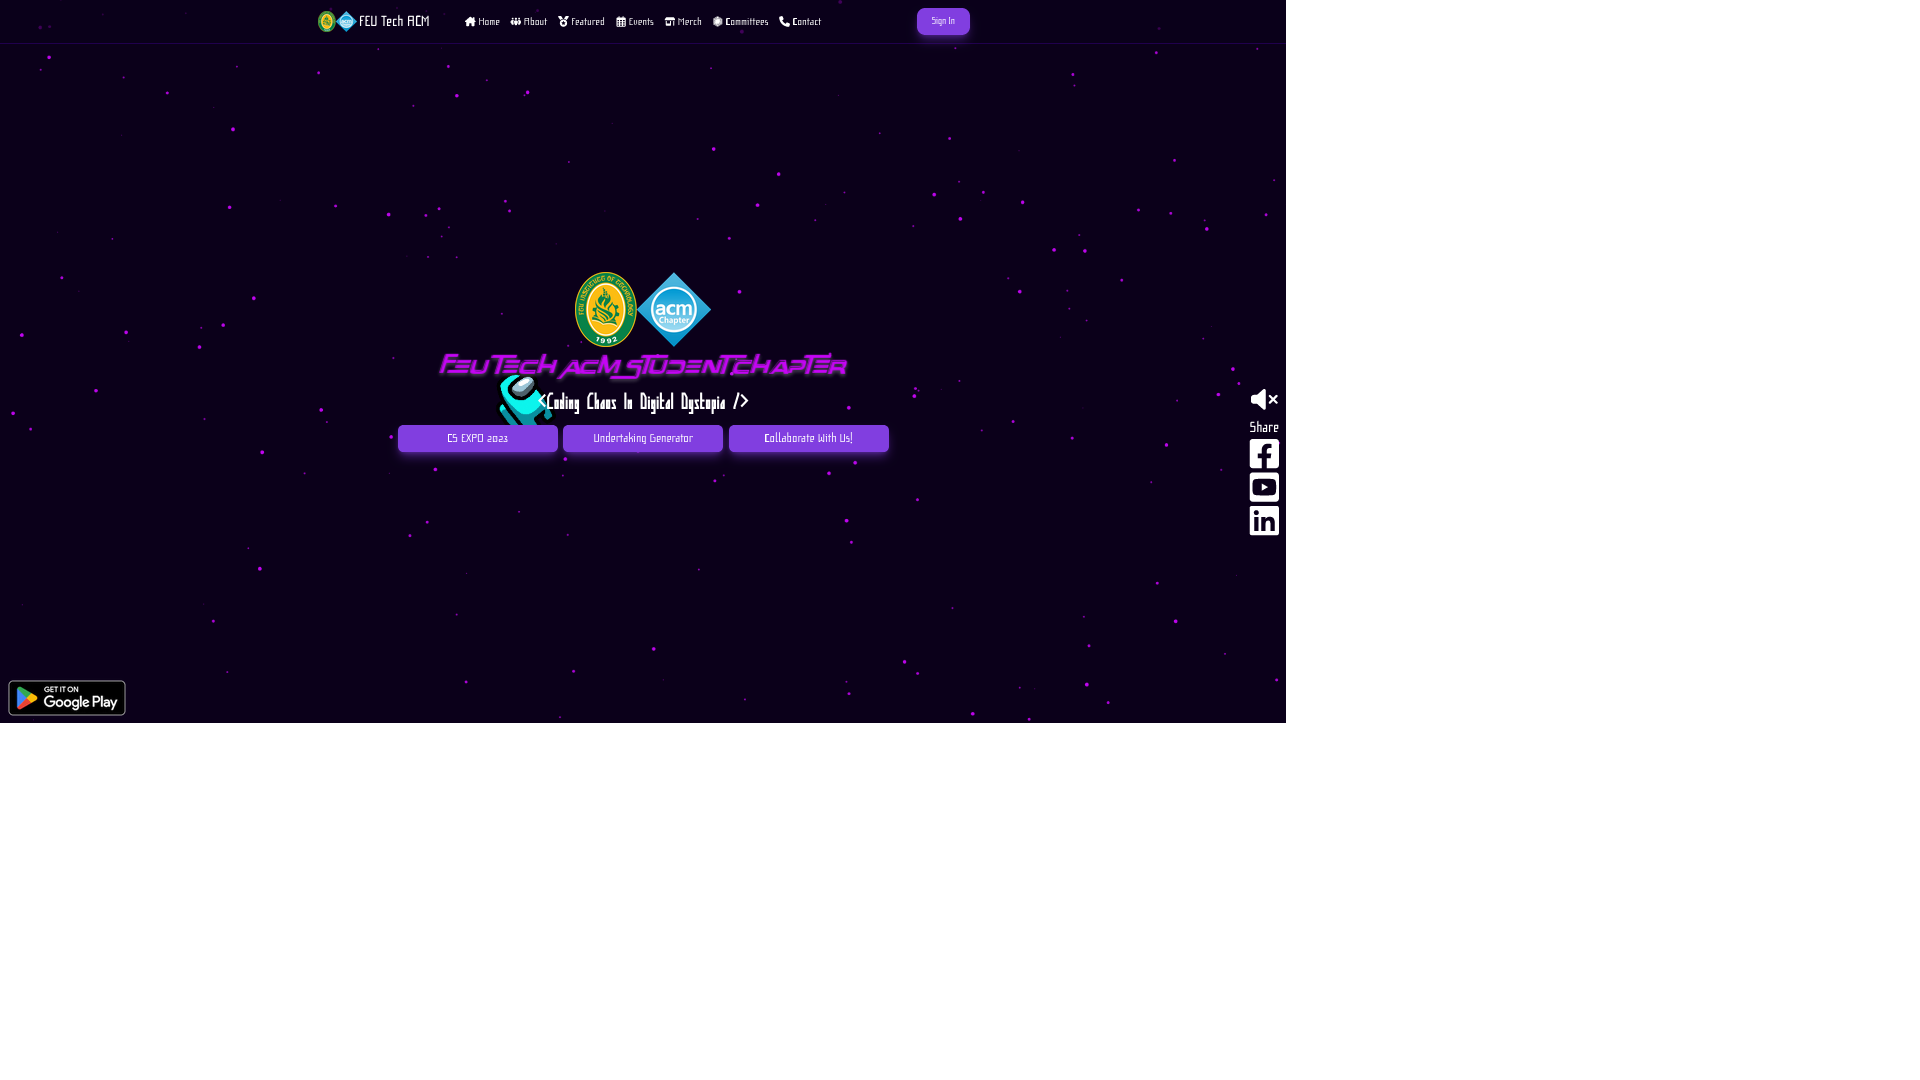
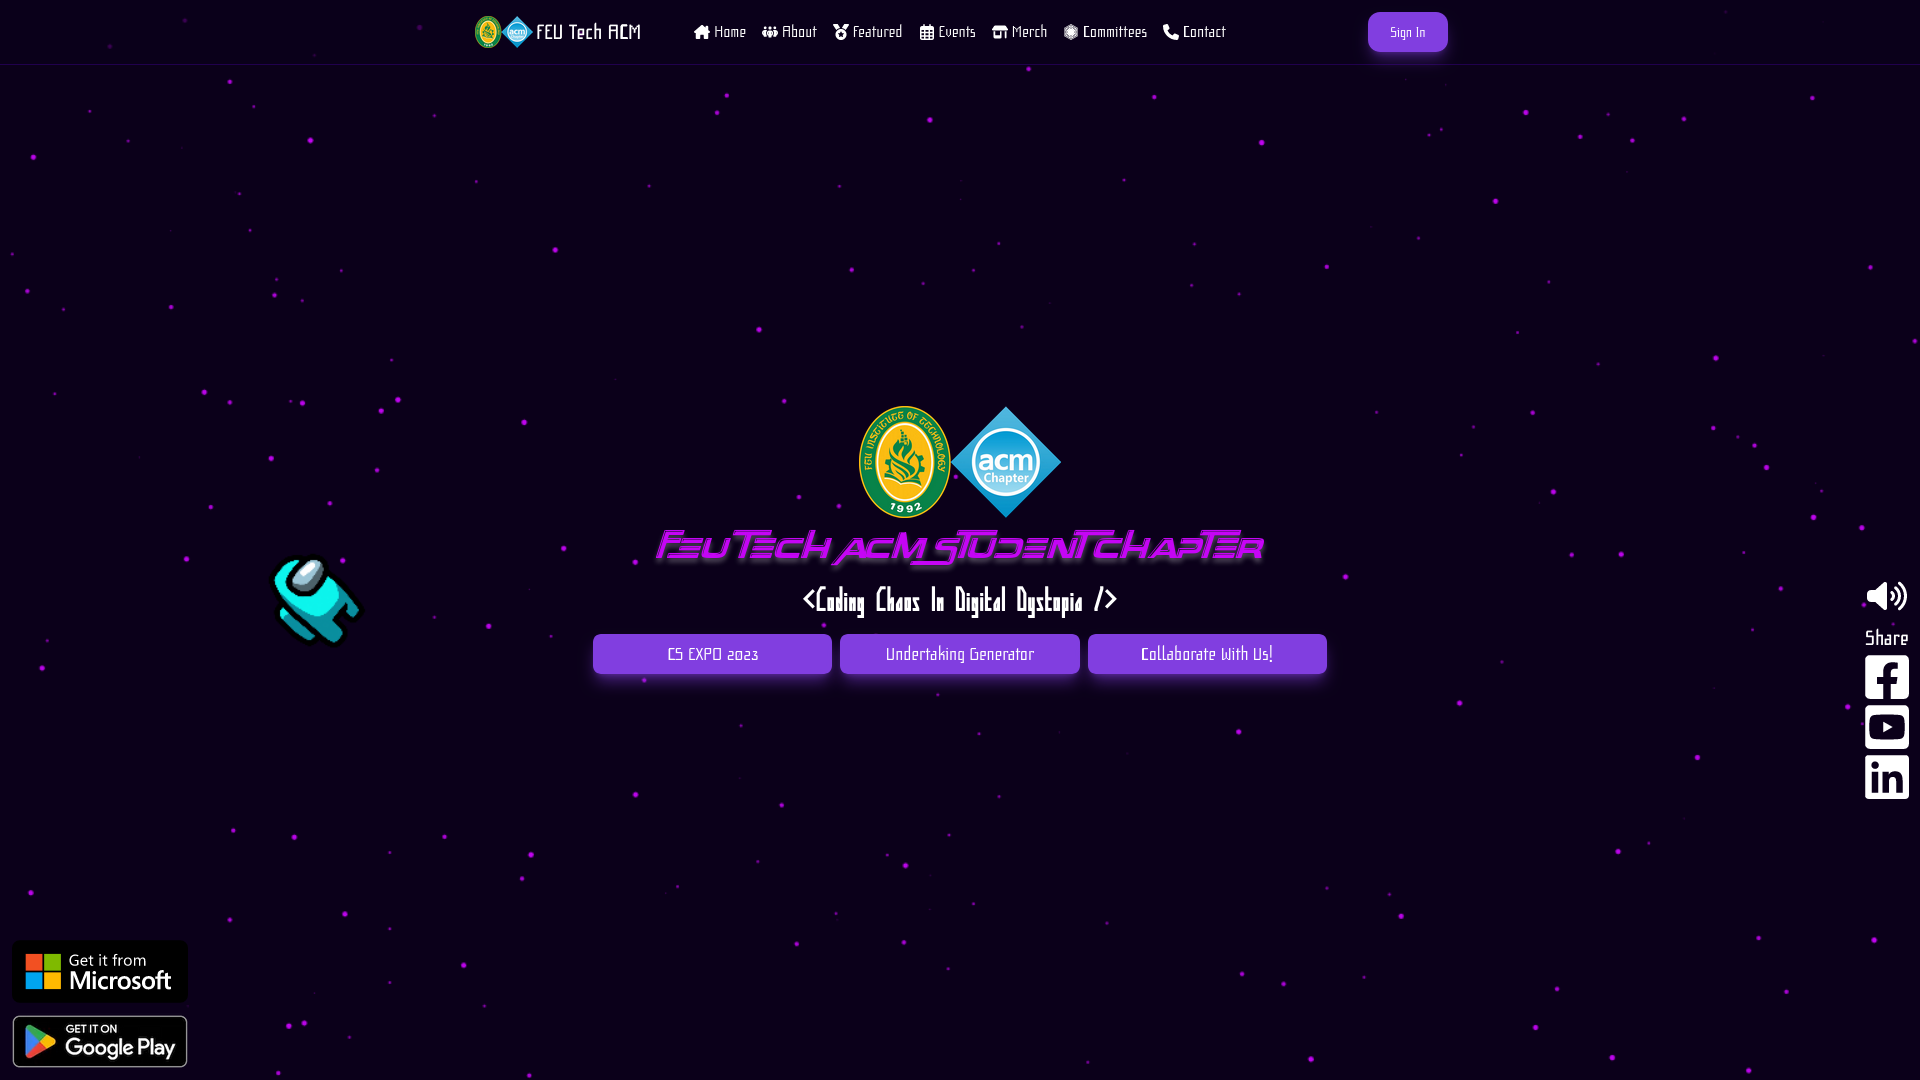
refactor: update microsoft store media files

diff --git a/src/components/2023/home/header/playstore/index.tsx b/src/components/2023/home/header/playstore/index.tsx
@@ -1,7 +1,21 @@
 import Image from "next/image";
 const HomePlayStore: React.FC = () => {
 	return (
-		<section id="playstore" className=" fixed bottom-0 left-0">
+		<section
+			id="playstore"
+			className="flex flex-col justify-center align-middle items-center fixed bottom-0 left-0"
+		>
+			<a
+				href="https://apps.microsoft.com/detail/9NN45TR81J26?launch=true
+	&mode=mini"
+			>
+				<Image
+					src="https://get.microsoft.com/images/en-us%20dark.svg"
+					width={176}
+					height={96}
+					alt="Microsoft Store Badge"
+				/>
+			</a>
 			<a href="https://play.google.com/store/apps/details?id=app.vercel.acmx.twa">
 				<Image
 					src={"/media/google-play-badge.png"}
